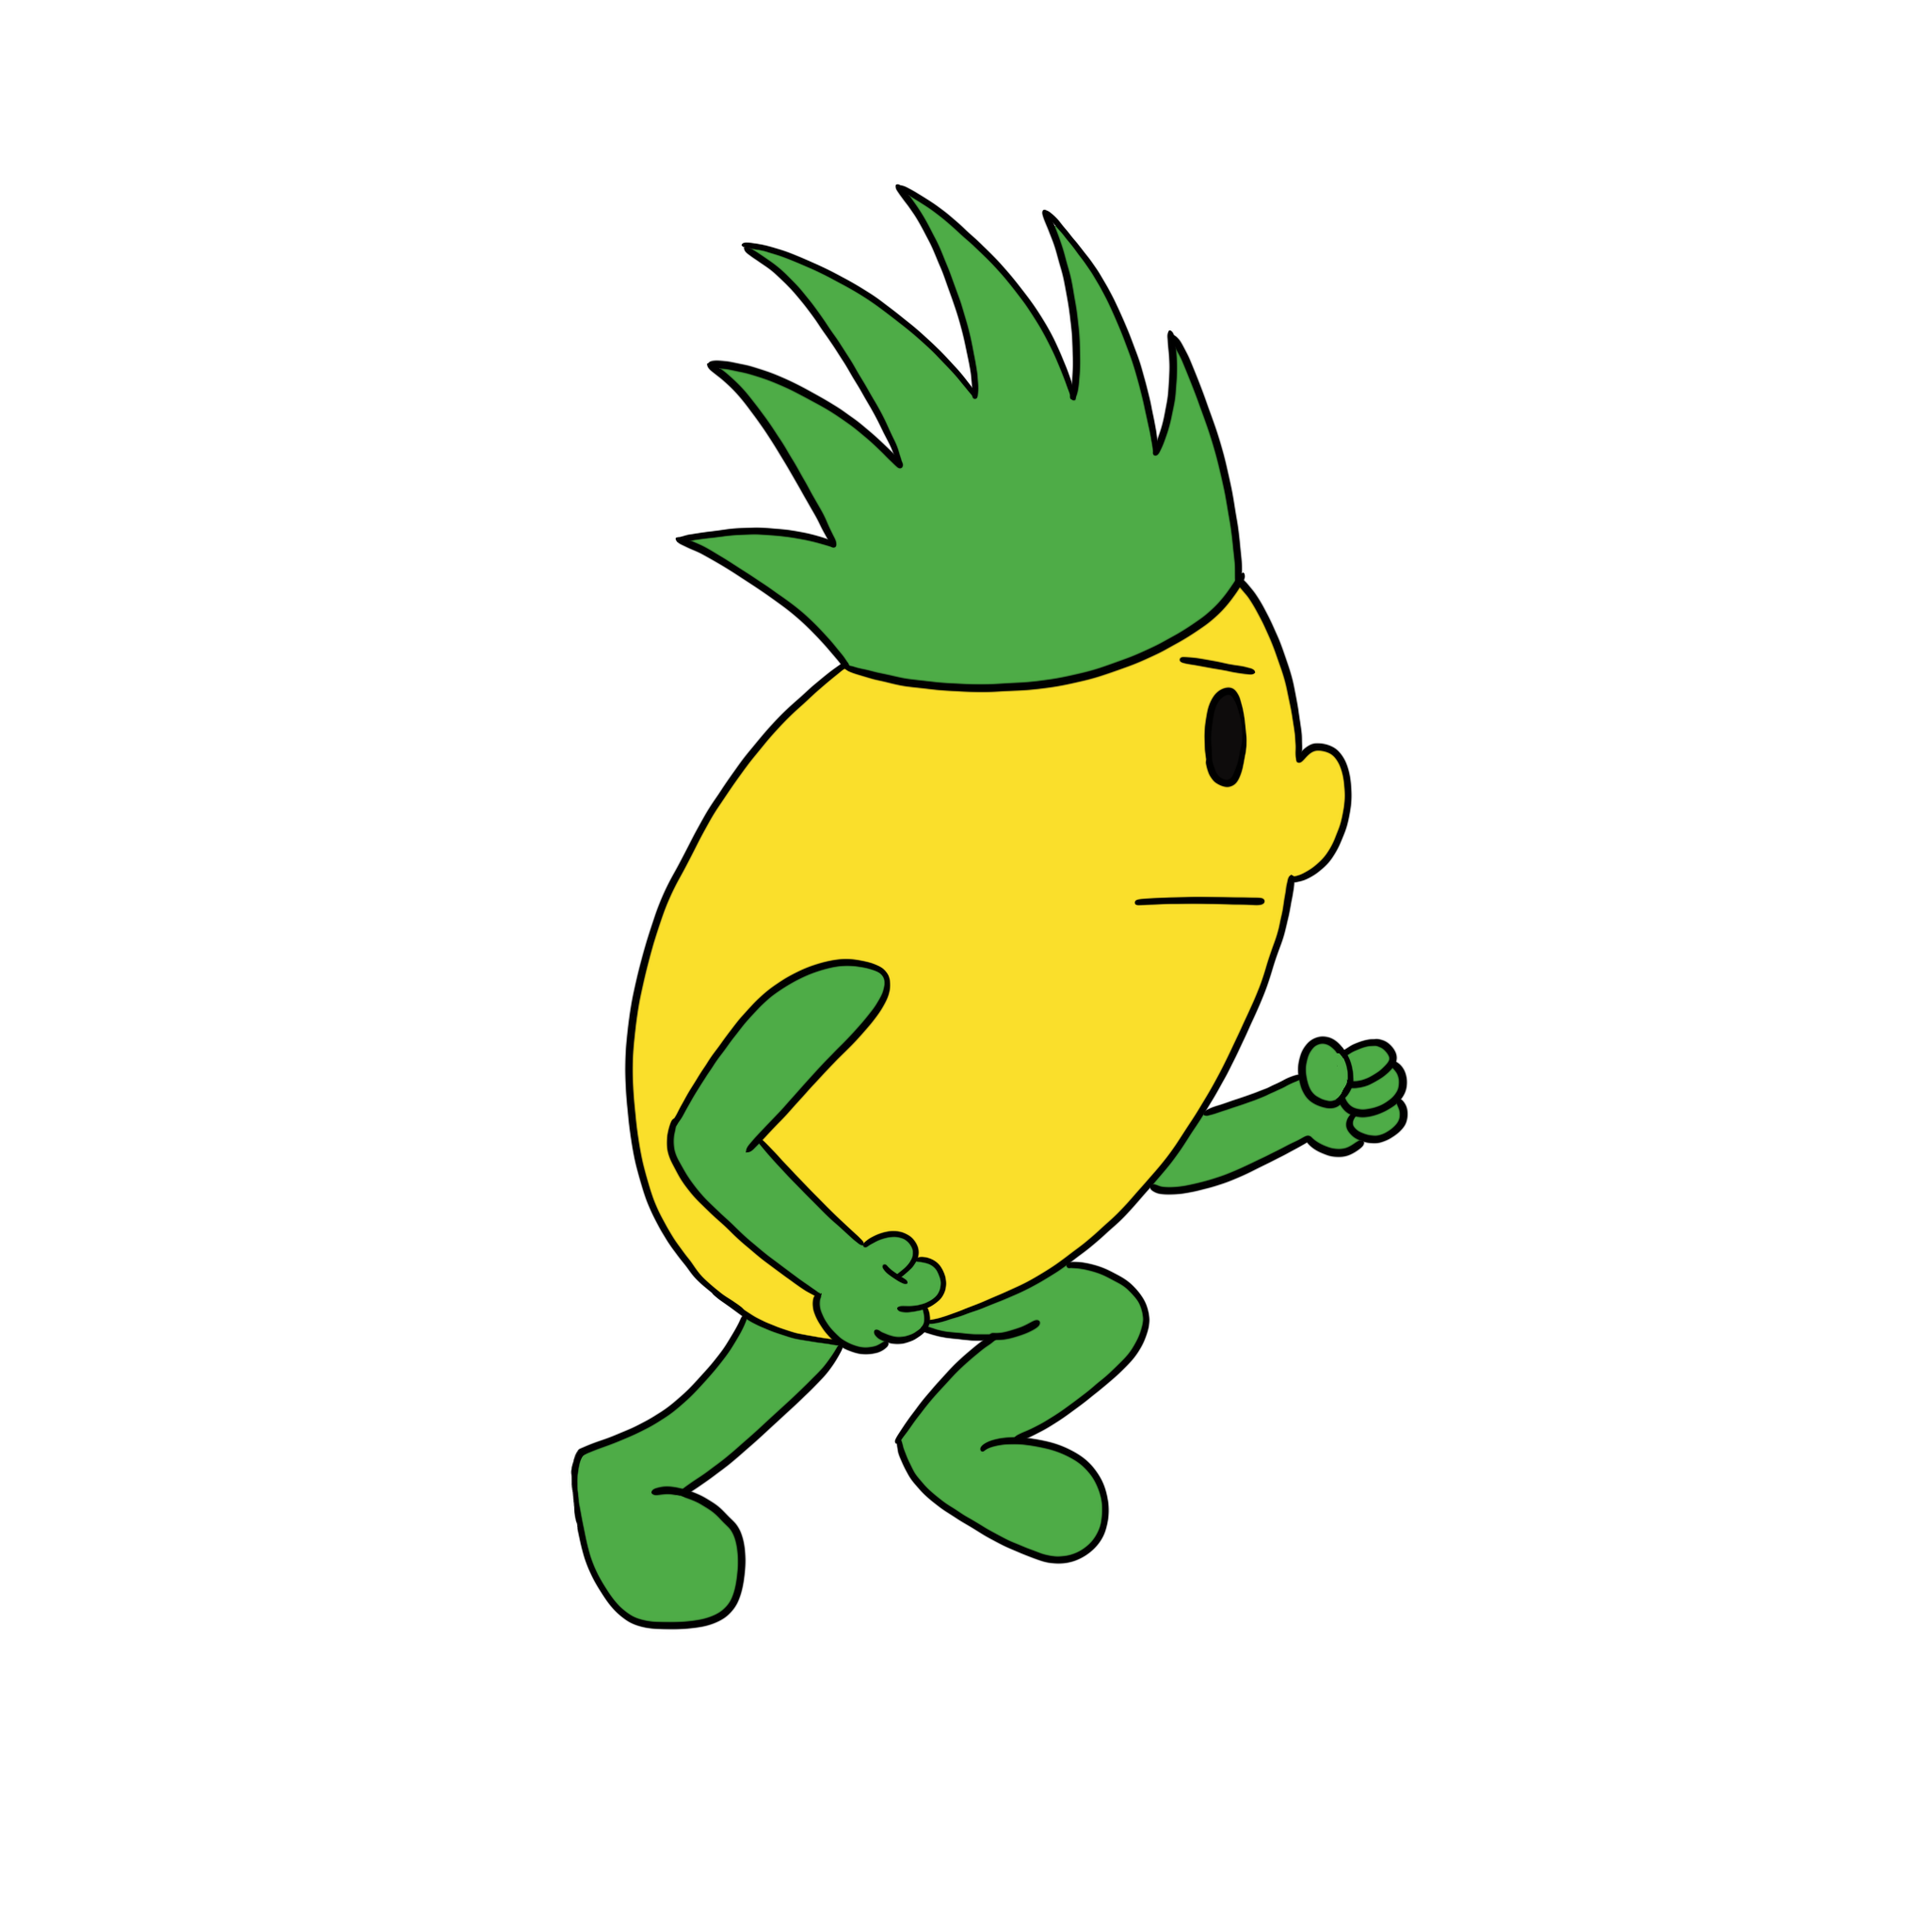
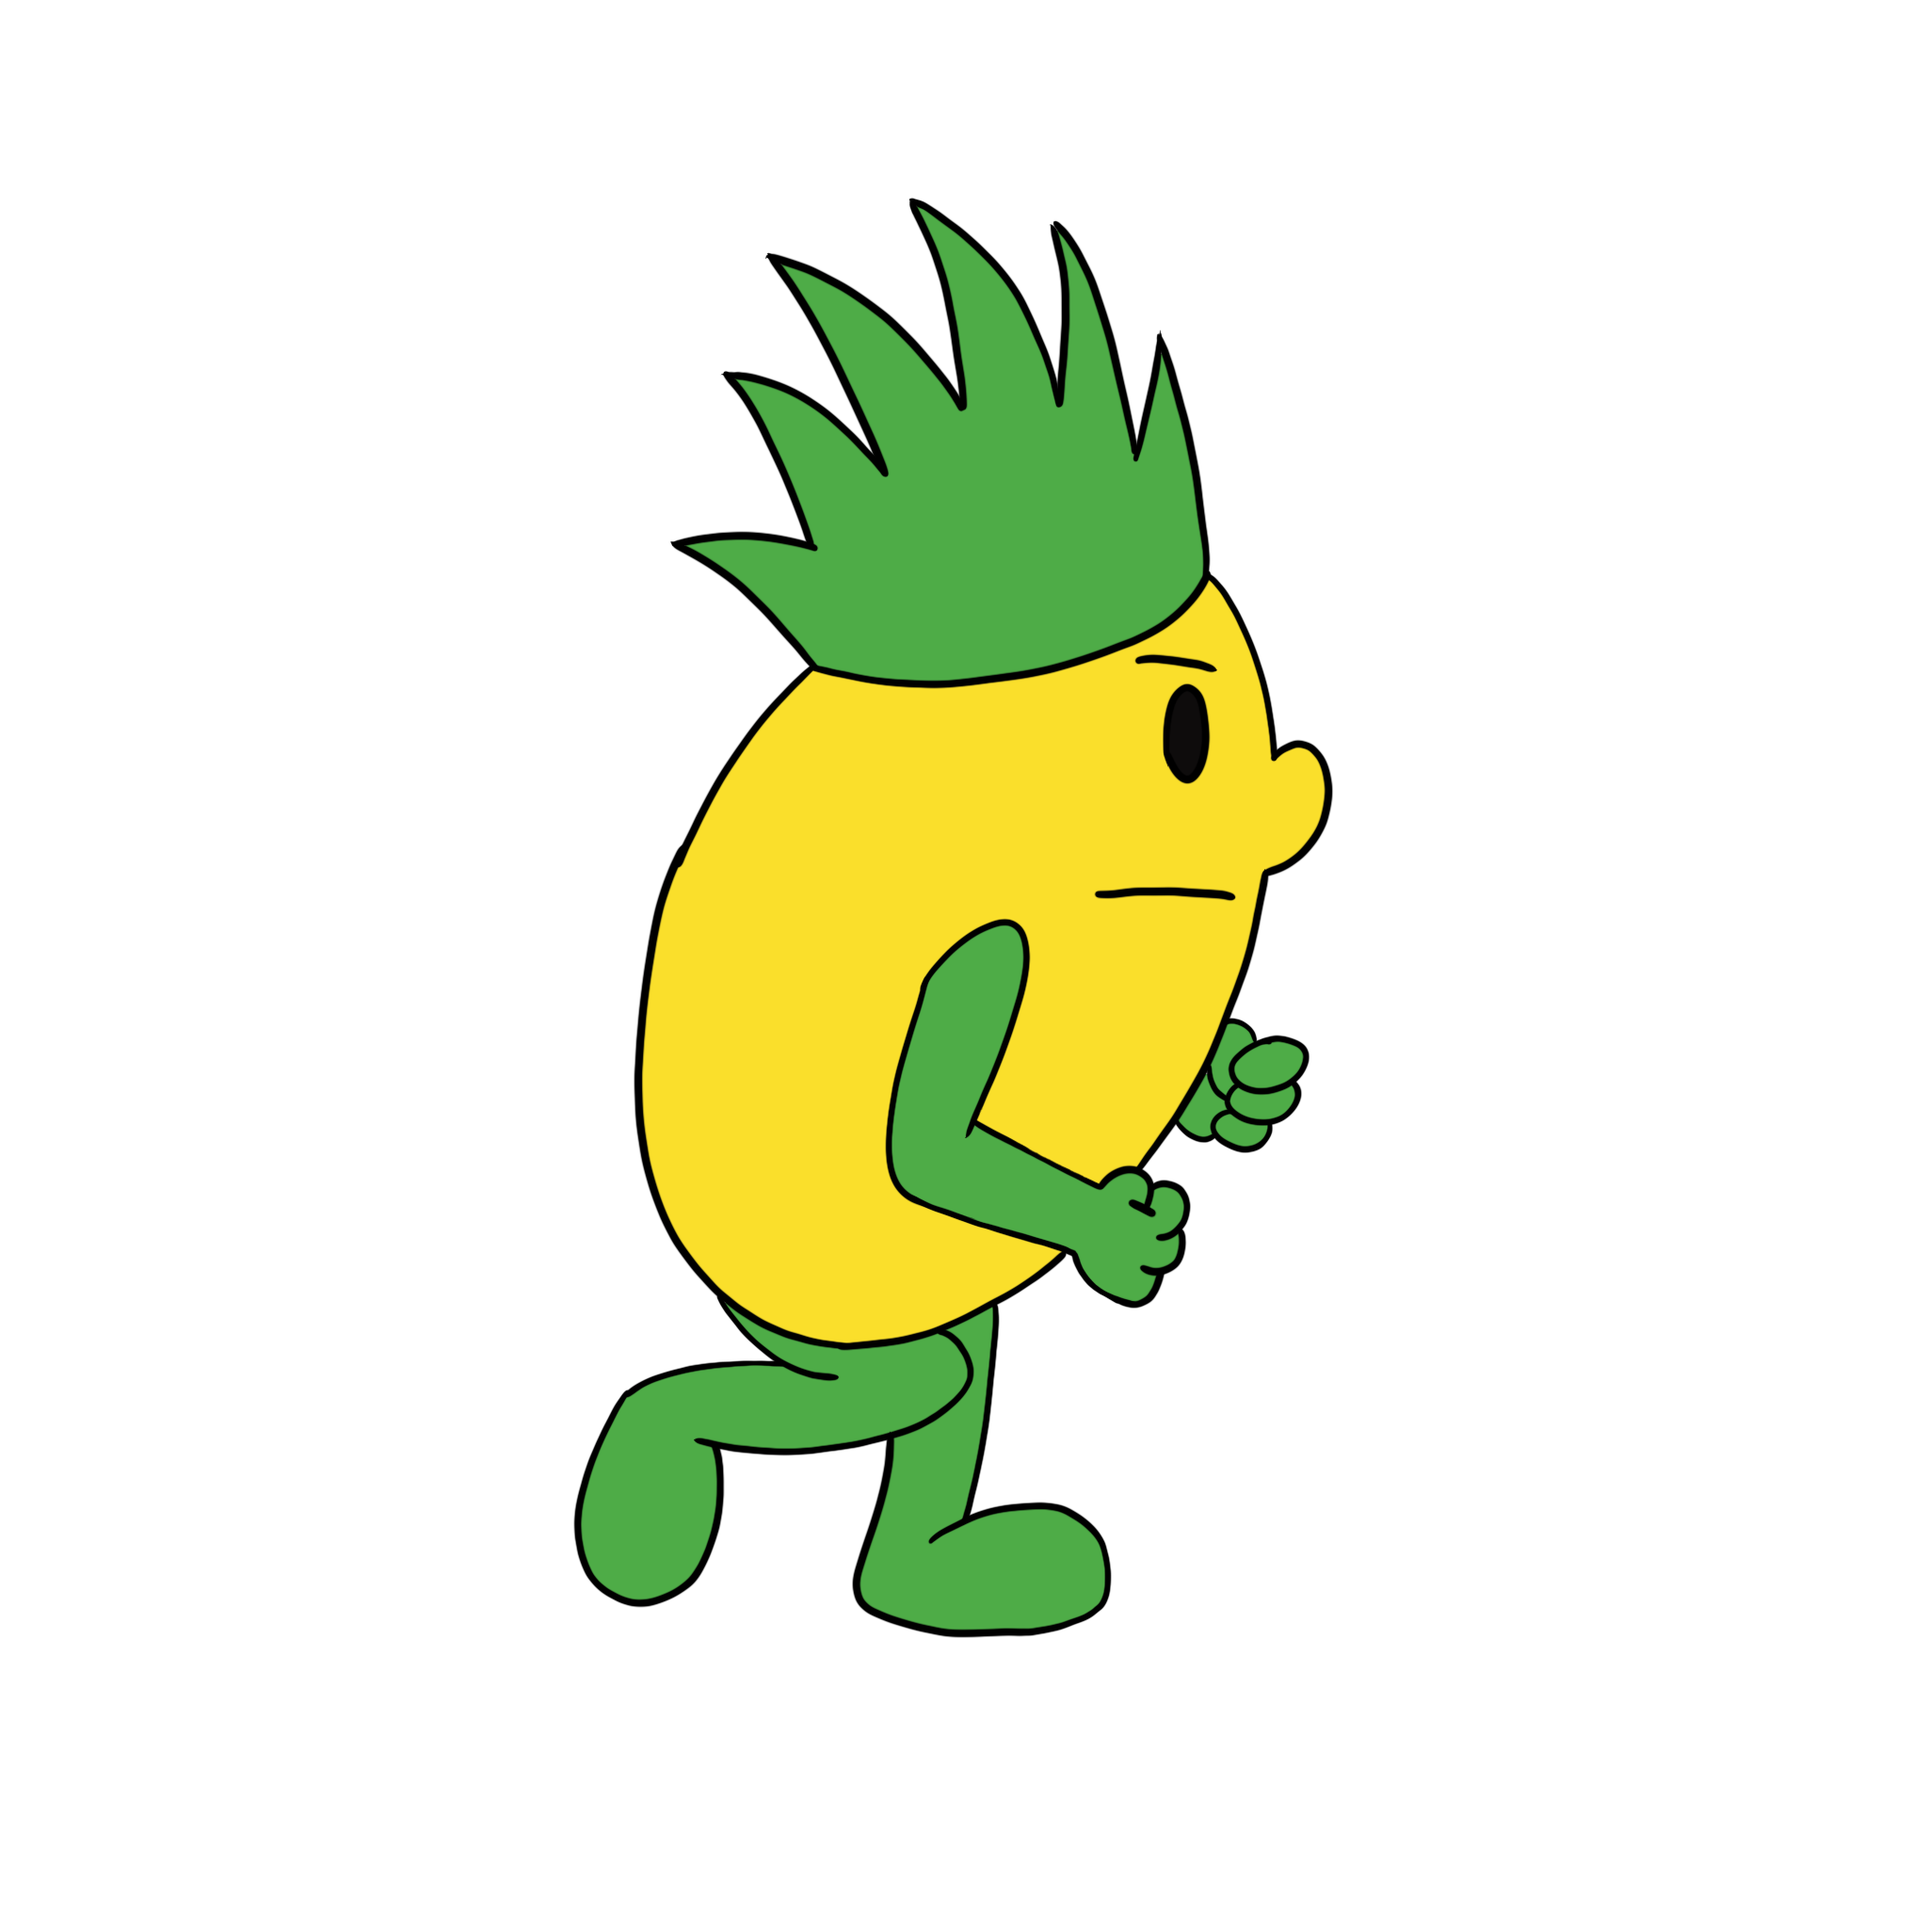
more frame pineapple run

Changed region(s): [[0.3125, 0.0938, 0.75, 0.875], [0.3438, 0.4062, 0.375, 0.4688], [0.2812, 0.75, 0.3125, 0.8125]]

diff --git a/components/PineappleRun/index.tsx b/components/PineappleRun/index.tsx
@@ -8,7 +8,7 @@ import {
 import { getStaggeredTimeline } from "@/app/utils/getStaggeredTimeline";
 import { mergeRefs } from "react-merge-refs";
 
-const runningFrames = [1, 2, 3, 4, 5, 6];
+const runningFrames = [1, 2, 3, 4, 5, 6, 7];
 
 const runSrc = (frame: number) => `/pineapple-run-${frame}.png`;
 
